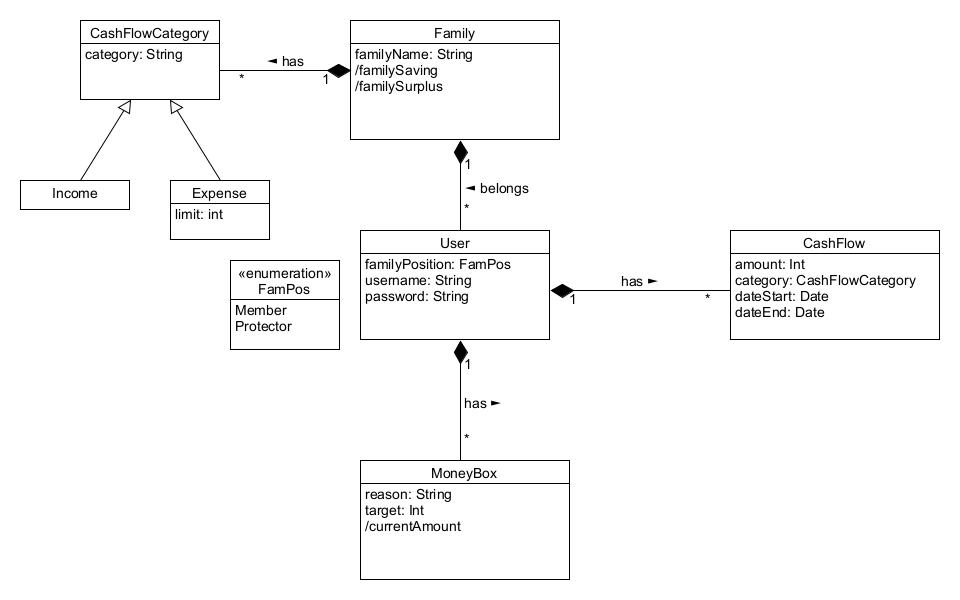
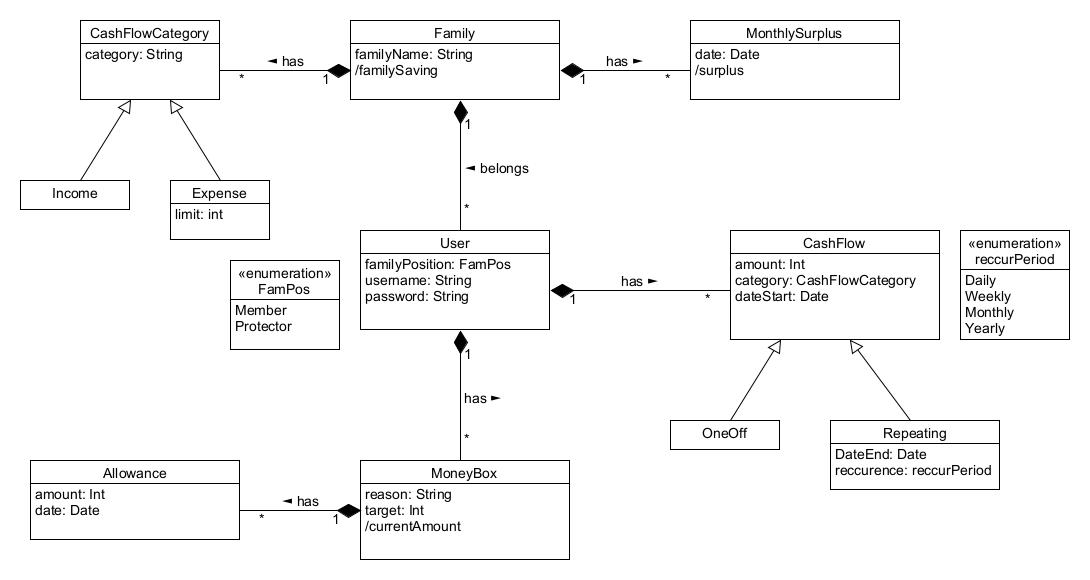
docs(R2): fix domain model, use cases 6,7 ambiguity

diff --git a/docs/markdown/uc6-non-recurring-income-expenses.md b/docs/markdown/uc6-non-recurring-income-expenses.md
@@ -14,10 +14,15 @@
 ### Βασική ροή
 
 1. Το μέλος επιλέγει "εισαγωγή εσόδων".
-2. Το μέλος τα δηλώνει ως "έκτακτα".
-3. Το μέλος πληκτρολογεί το ποσό.
-4. Το μέλος επιλέγει την κατηγορία στην οποία ανήκει το ποσό αυτό.
-5. Το μέλος πατάει αποθήκευση.
+2. Το Σύστημα προτρέπει την επιλογή της επαναληπτικότητας του.
+3. Το μέλος τα δηλώνει ως "έκτακτα".
+4. Το Σύστημα προτρέπει την εισαγωγή του ποσού.
+5. Το μέλος πληκτρολογεί το ποσό.
+6. Το Σύστημα επιβεβαιώνει το ποσό.
+7. Το Σύστημα προτρέπει την επιλογής κατηγορίας.
+8. Το μέλος επιλέγει την κατηγορία στην οποία ανήκει το ποσό αυτό.
+9. Το Σύστημα προτρέπει για επιθυμία αποθήκευσης.
+10. Το μέλος πατάει αποθήκευση.
 
 ### Εναλλακτικές Ροές
 
@@ -32,6 +37,9 @@
 4α. Το μέλος δεν έβαλε νούμερο στο ποσό.
 1. Η εφαρμογή εμφανίζει κατάλληλο μήνυμα σφάλματος.
 2. Η περίπτωση χρήσης επιστρέφει στο βήμα 3.
+
+10α. Το μέλος δεν αποθηκεύει.
+1. Η ΠΧ τερματίζει χωρίς ενημέρωση των δεδομένων.
 
 
 ## Διάγραμμα δραστηριότητας

diff --git a/docs/markdown/uc7-recurring-monthly-income-expenses.md b/docs/markdown/uc7-recurring-monthly-income-expenses.md
@@ -14,11 +14,17 @@
 ### Βασική ροή
 
 1. Το μέλος επιλέγει "εισαγωγή εσόδων".
-2. Το μέλος τα δηλώνει ως "μηνιαία".
-3. O χρήστης επιλέγει τον μήνα έναρξης και λήξης
-4. Το μέλος πληκτρολογεί το ποσό.
-5. Το μέλος επιλέγει την κατηγορία στην οποία ανήκει το ποσό αυτό.
-6. Το μέλος πατάει αποθήκευση.
+2. Το Σύστημα προτρέπει την επιλογή της επαναληπτικότητας του.
+3. Το μέλος τα δηλώνει ως "μηνιαία".
+4. Το Σύστημα προτρέπει μήνα έναρξης/λήξης και επαναληπτική περίοδο.
+5. O χρήστης επιλέγει τον μήνα έναρξης, λήξης και επαναληπτική περίοδο. 
+6. Το Σύστημα προτρέπει την εισαγωγή του ποσού.
+7. Το μέλος πληκτρολογεί το ποσό.
+8. Το Σύστημα επιβεβαιώνει το ποσό.
+9. Το Σύστημα προτρέπει την επιλογής κατηγορίας.
+10. Το μέλος επιλέγει την κατηγορία στην οποία ανήκει το ποσό αυτό.
+11. Το Σύστημα προτρέπει για επιθυμία αποθήκευσης.
+12. Το μέλος πατάει αποθήκευση.
 
 ### Εναλλακτικές Ροές
 
